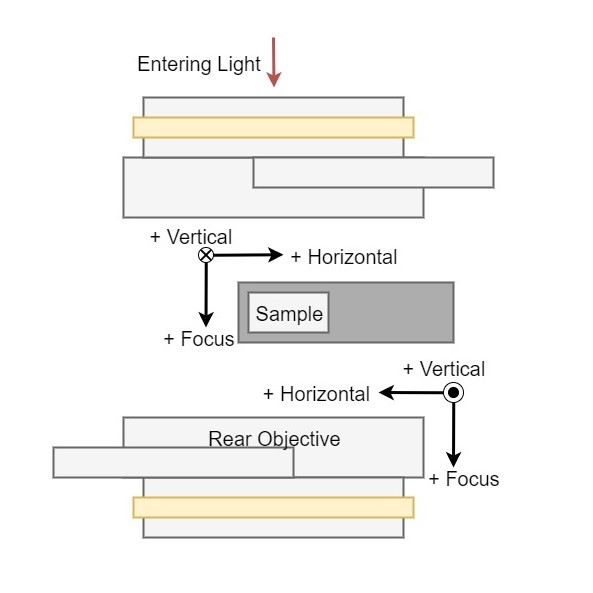
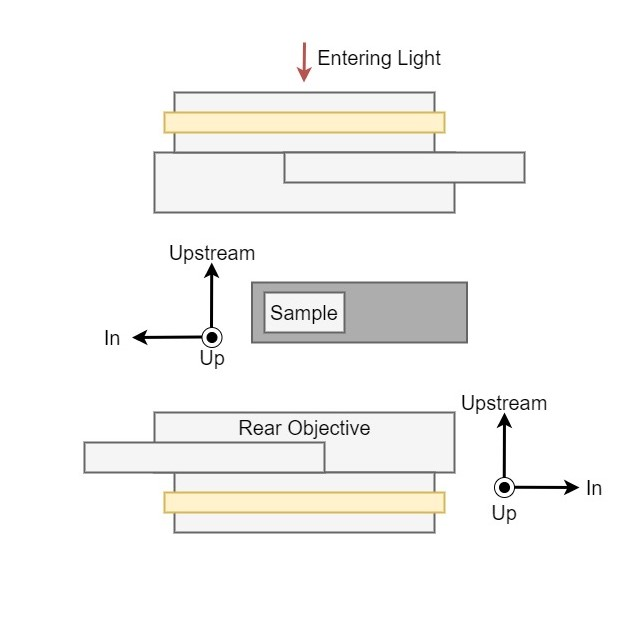
Changed to labeled directions.

diff --git a/microgui/source/gui.py b/microgui/source/gui.py
@@ -393,7 +393,8 @@ class GUI(QMainWindow):
         layout.addWidget(QLabel("<b>Step Size</b>"), 1, 3, 1, 1)
         layout.addWidget(QLabel("<b>Absolute Position</b>"), 1, 4, 1, 1)
         layout.addWidget(QLabel("<b>Continual Motion</b>"), 1, 6, 1, 3)
-        layout.addWidget(QLabel("<b>Limits</b>"), 1, 9, 1, 4)
+        layout.addWidget(QLabel("<b>Soft Limits</b>"), 1, 9, 1, 2)
+        layout.addWidget(QLabel("<b>Hard Limits</b>"), 1, 11, 1, 2)
         layout.addWidget(QLabel("<b>Current Position</b>"), 1, 13, 1, 1)
         layout.addWidget(QLabel("<b>Motor Status</b>"), 1, 14, 1, 1)
 
@@ -402,18 +403,18 @@ class GUI(QMainWindow):
         # ---------------------------------------------------------------------
 
         # Create interactive widgets.
-        self.xSN = QPushButton("-")
-        self.xSP = QPushButton("+")
+        self.xSN = QPushButton("In")
+        self.xSP = QPushButton("Out")
         self.xSStep = QLineEdit("0")
         self.xSAbsPos = QLineEdit("0")
         self.xSMove = QPushButton("MOVE")
-        self.xSCn = QPushButton("-")
+        self.xSCn = QPushButton("In")
         self.xSStop = QPushButton("STOP")
-        self.xSCp = QPushButton("+")
-        self.xSSn = QLabel("Soft -")
-        self.xSSp = QLabel("Soft +")
-        self.xSHn = QLabel("Hard -")
-        self.xSHp = QLabel("Hard +")
+        self.xSCp = QPushButton("Out")
+        self.xSSn = QLabel("In")
+        self.xSSp = QLabel("Out")
+        self.xSHn = QLabel("In")
+        self.xSHp = QLabel("Out")
         self.xIdleS = QLabel("IDLE")
         self.xStepS = QLabel("<b>STEPS</b>")
 
@@ -456,18 +457,18 @@ class GUI(QMainWindow):
         # ---------------------------------------------------------------------
 
         # Create interactive widgets.
-        self.ySN = QPushButton("-")
-        self.ySP = QPushButton("+")
+        self.ySN = QPushButton("Up")
+        self.ySP = QPushButton("Down")
         self.ySStep = QLineEdit("0")
         self.ySAbsPos = QLineEdit("0")
         self.ySMove = QPushButton("MOVE")
-        self.ySCn = QPushButton("-")
+        self.ySCn = QPushButton("Up")
         self.ySStop = QPushButton("STOP")
-        self.ySCp = QPushButton("+")
-        self.ySSn = QLabel("Soft -")
-        self.ySSp = QLabel("Soft +")
-        self.ySHn = QLabel("Hard -")
-        self.ySHp = QLabel("Hard +")
+        self.ySCp = QPushButton("Down")
+        self.ySSn = QLabel("Up")
+        self.ySSp = QLabel("Down")
+        self.ySHn = QLabel("Up")
+        self.ySHp = QLabel("Down")
         self.yIdleS = QLabel("IDLE")
         self.yStepS = QLabel("<b>STEPS</b>")
 
@@ -510,18 +511,18 @@ class GUI(QMainWindow):
         # ---------------------------------------------------------------------
 
         # Create interactive widgets.
-        self.zSN = QPushButton("-")
-        self.zSP = QPushButton("+")
+        self.zSN = QPushButton("Upstream")
+        self.zSP = QPushButton("Downstream")
         self.zSStep = QLineEdit("0")
         self.zSAbsPos = QLineEdit("0")
         self.zSMove = QPushButton("MOVE")
-        self.zSCn = QPushButton("-")
+        self.zSCn = QPushButton("Upstream")
         self.zSStop = QPushButton("STOP")
-        self.zSCp = QPushButton("+")
-        self.zSSn = QLabel("Soft -")
-        self.zSSp = QLabel("Soft +")
-        self.zSHn = QLabel("Hard -")
-        self.zSHp = QLabel("Hard +")
+        self.zSCp = QPushButton("Downstream")
+        self.zSSn = QLabel("Upstream  ")
+        self.zSSp = QLabel("Downstream")
+        self.zSHn = QLabel("Upstream  ")
+        self.zSHp = QLabel("Downstream")
         self.zIdleS = QLabel("IDLE")
         self.zStepS = QLabel("<b>STEPS</b>")
 
@@ -584,7 +585,8 @@ class GUI(QMainWindow):
         layout.addWidget(QLabel("<b>Step Size</b>"), 1, 3, 1, 1)
         layout.addWidget(QLabel("<b>Absolute Position</b>"), 1, 4, 1, 1)
         layout.addWidget(QLabel("<b>Continual Motion</b>"), 1, 6, 1, 3)
-        layout.addWidget(QLabel("<b>Limits</b>"), 1, 9, 1, 4)
+        layout.addWidget(QLabel("<b>Soft Limits</b>"), 1, 9, 1, 2)
+        layout.addWidget(QLabel("<b>Hard Limits</b>"), 1, 11, 1, 2)
         layout.addWidget(QLabel("<b>Current Position</b>"), 1, 13, 1, 1)
         layout.addWidget(QLabel("<b>Motor Status</b>"), 1, 14, 1, 1)
 
@@ -593,18 +595,18 @@ class GUI(QMainWindow):
         # ---------------------------------------------------------------------
 
         # Create interactive widgets.
-        self.xON = QPushButton("-")
-        self.xOP = QPushButton("+")
+        self.xON = QPushButton("In")
+        self.xOP = QPushButton("Out")
         self.xOStep = QLineEdit("0")
         self.xOAbsPos = QLineEdit("0")
         self.xOMove = QPushButton("MOVE")
-        self.xOCn = QPushButton("-")
+        self.xOCn = QPushButton("In")
         self.xOStop = QPushButton("STOP")
-        self.xOCp = QPushButton("+")
-        self.xOSn = QLabel("Soft -")
-        self.xOSp = QLabel("Soft +")
-        self.xOHn = QLabel("Hard -")
-        self.xOHp = QLabel("Hard +")
+        self.xOCp = QPushButton("Out")
+        self.xOSn = QLabel("In")
+        self.xOSp = QLabel("Out")
+        self.xOHn = QLabel("In")
+        self.xOHp = QLabel("Out")
         self.xIdleO = QLabel("IDLE")
         self.xStepO = QLabel("<b>STEPS</b>")
 
@@ -647,18 +649,18 @@ class GUI(QMainWindow):
         # ---------------------------------------------------------------------
 
         # Create interactive widgets.
-        self.yON = QPushButton("-")
-        self.yOP = QPushButton("+")
+        self.yON = QPushButton("Up")
+        self.yOP = QPushButton("Down")
         self.yOStep = QLineEdit("0")
         self.yOAbsPos = QLineEdit("0")
         self.yOMove = QPushButton("MOVE")
-        self.yOCn = QPushButton("-")
+        self.yOCn = QPushButton("Up")
         self.yOStop = QPushButton("STOP")
-        self.yOCp = QPushButton("+")
-        self.yOSn = QLabel("Soft -")
-        self.yOSp = QLabel("Soft +")
-        self.yOHn = QLabel("Hard -")
-        self.yOHp = QLabel("Hard +")
+        self.yOCp = QPushButton("Down")
+        self.yOSn = QLabel("Up")
+        self.yOSp = QLabel("Down")
+        self.yOHn = QLabel("Up")
+        self.yOHp = QLabel("Down")
         self.yIdleO = QLabel("IDLE")
         self.yStepO = QLabel("<b>STEPS</b>")
 
@@ -701,18 +703,18 @@ class GUI(QMainWindow):
         # ---------------------------------------------------------------------
 
         # Create interactive widgets.
-        self.zON = QPushButton("-")
-        self.zOP = QPushButton("+")
+        self.zON = QPushButton("Upstream")
+        self.zOP = QPushButton("Downstream")
         self.zOStep = QLineEdit("0")
         self.zOAbsPos = QLineEdit("0")
         self.zOMove = QPushButton("MOVE")
-        self.zOCn = QPushButton("-")
+        self.zOCn = QPushButton("Upstream")
         self.zOStop = QPushButton("STOP")
-        self.zOCp = QPushButton("+")
-        self.zOSn = QLabel("Soft -")
-        self.zOSp = QLabel("Soft +")
-        self.zOHn = QLabel("Hard -")
-        self.zOHp = QLabel("Hard +")
+        self.zOCp = QPushButton("Downstream")
+        self.zOSn = QLabel("Upstream  ")
+        self.zOSp = QLabel("Downstream")
+        self.zOHn = QLabel("Upstream  ")
+        self.zOHp = QLabel("Downstream")
         self.zIdleO = QLabel("IDLE")
         self.zStepO = QLabel("<b>STEPS</b>")
 

diff --git a/microgui/source/main.py b/microgui/source/main.py
@@ -7,7 +7,6 @@ to run the FAR-IR horizontal microscope.
 # Import package dependencies.
 from PyQt5.QtWidgets import QApplication
 import sys
-import json
 from typing import Dict
 
 # Import file dependencies.
